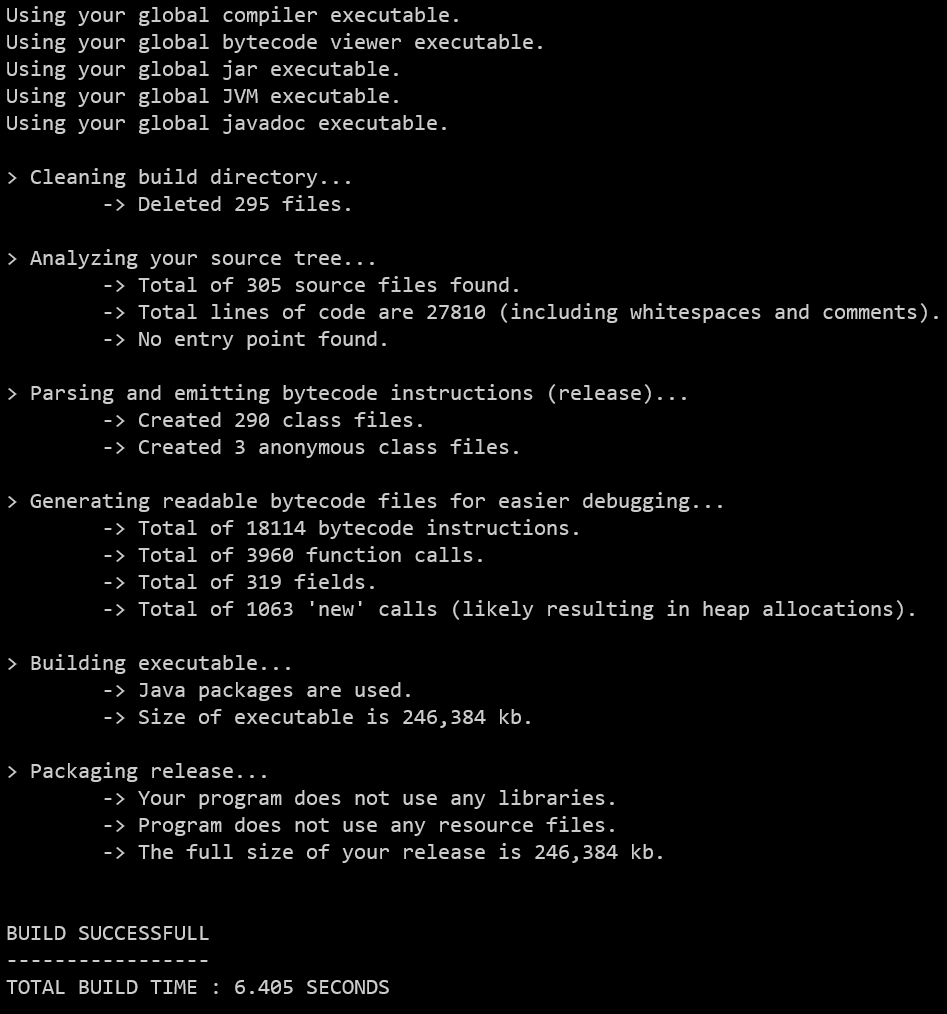
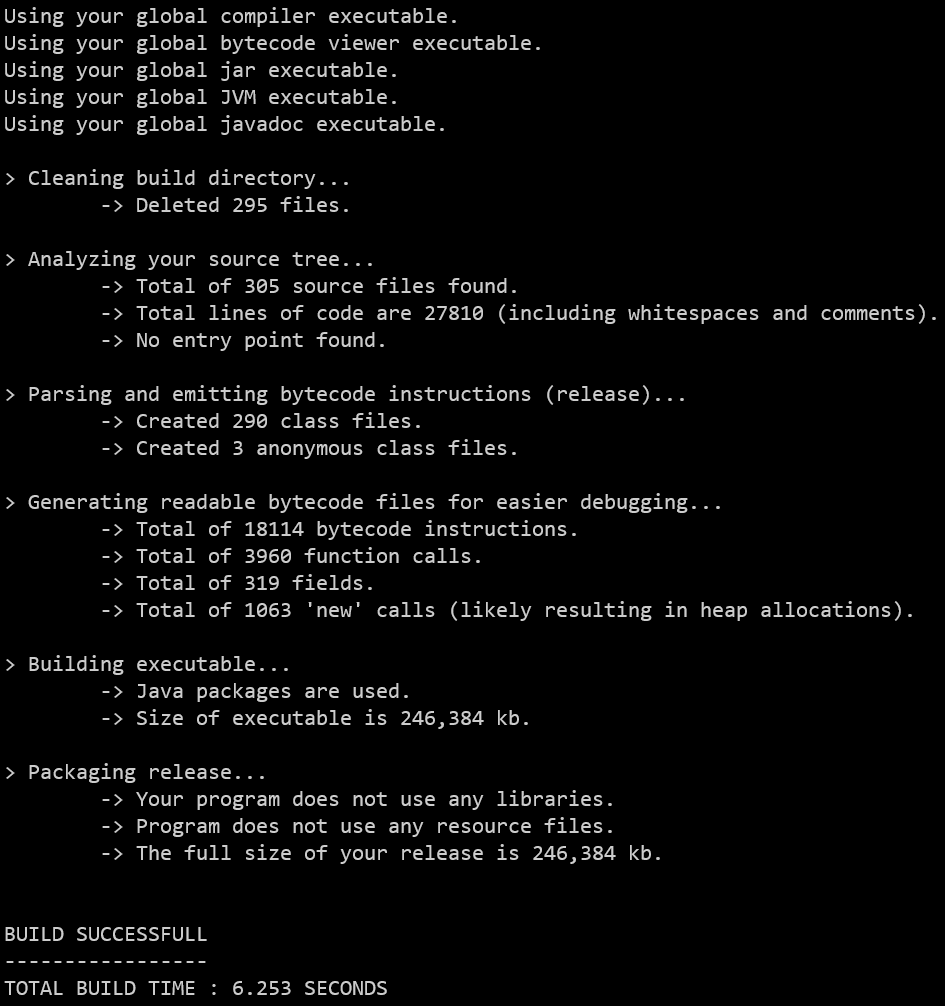
release 0.17.0

diff --git a/jbp.java b/jbp.java
@@ -898,30 +898,32 @@ public final class jbp {
             startNanoTime = System.nanoTime();
             {
                 loadConfiguration();
-                if (compiler.equalsIgnoreCase("---")) {
-                    System.out.println("Using your global compiler executable.");
-                } else {
-                    System.out.println("Using following javac executable: " + compiler);
-                }
-                if (bytecodeViewer.equalsIgnoreCase("---")) {
-                    System.out.println("Using your global bytecode viewer executable.");
-                } else {
-                    System.out.println("Using following javap executable: " + bytecodeViewer);
-                }
-                if (jar.equalsIgnoreCase("---")) {
-                    System.out.println("Using your global jar executable.");
-                } else {
-                    System.out.println("Using following jar executable: " + jar);
-                }
-                if (jvm.equalsIgnoreCase("---")) {
-                    System.out.println("Using your global JVM executable.");
-                } else {
-                    System.out.println("Using the following JVM executable: " + jvm);
-                }
-                if (javadoc.equalsIgnoreCase("---")) {
-                    System.out.println("Using your global javadoc executable.");
-                } else {
-                    System.out.println("Using following javadoc executable: " + javadoc);
+                if (!simpleOutputBool) {
+                    if (compiler.equalsIgnoreCase("---")) {
+                        System.out.println("Using your global compiler executable.");
+                    } else {
+                        System.out.println("Using following javac executable: " + compiler);
+                    }
+                    if (bytecodeViewer.equalsIgnoreCase("---")) {
+                        System.out.println("Using your global bytecode viewer executable.");
+                    } else {
+                        System.out.println("Using following javap executable: " + bytecodeViewer);
+                    }
+                    if (jar.equalsIgnoreCase("---")) {
+                        System.out.println("Using your global jar executable.");
+                    } else {
+                        System.out.println("Using following jar executable: " + jar);
+                    }
+                    if (jvm.equalsIgnoreCase("---")) {
+                        System.out.println("Using your global JVM executable.");
+                    } else {
+                        System.out.println("Using the following JVM executable: " + jvm);
+                    }
+                    if (javadoc.equalsIgnoreCase("---")) {
+                        System.out.println("Using your global javadoc executable.");
+                    } else {
+                        System.out.println("Using following javadoc executable: " + javadoc);
+                    }
                 }
                 if (simpleOutputBool) {
                     System.out.println("Building project...");
@@ -987,7 +989,7 @@ public final class jbp {
         } else if (args.length == 1) {
             final String arg = args[0];
             if (arg.equalsIgnoreCase("--version")) {
-                System.out.println("v0.16.1");
+                System.out.println("v0.17.0");
             } else if (arg.equalsIgnoreCase("--help")) {
                 System.out.println("jbp (just build please) is a build tool for java projects. - Niklas Schultz");
                 System.out.println();
